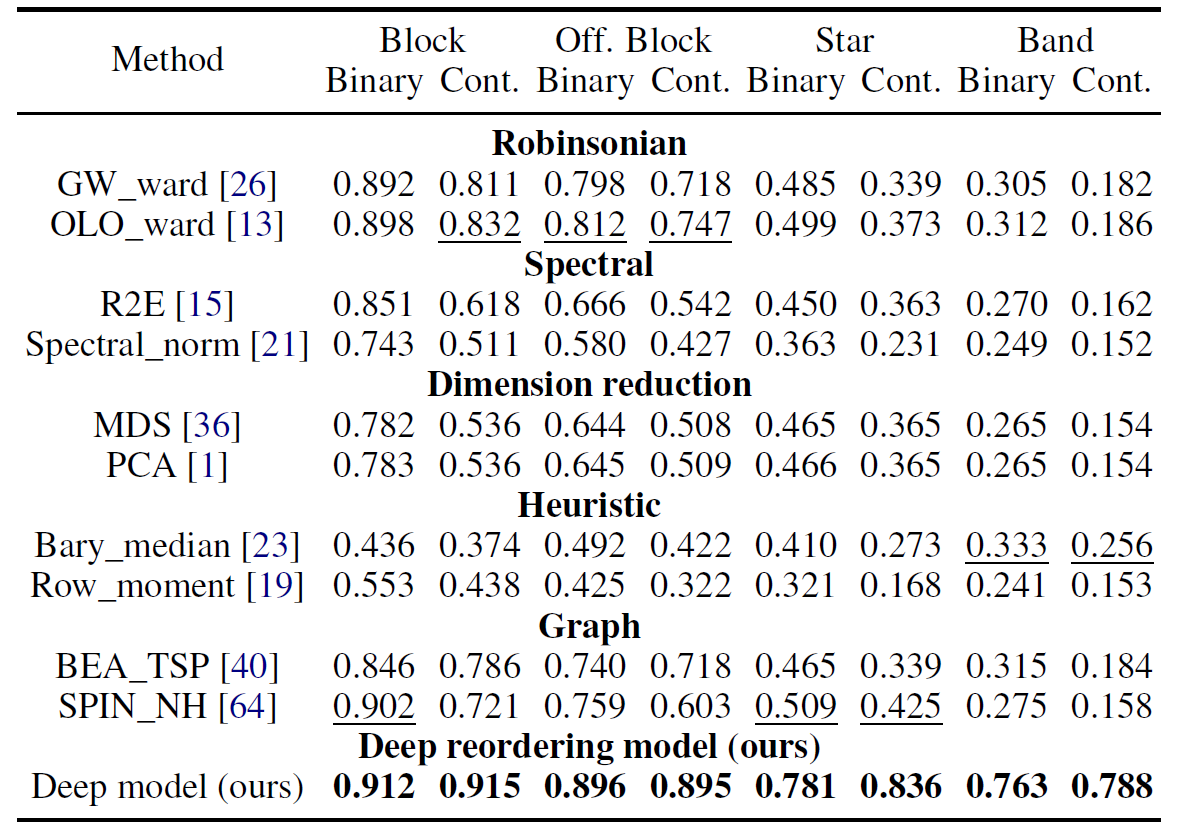
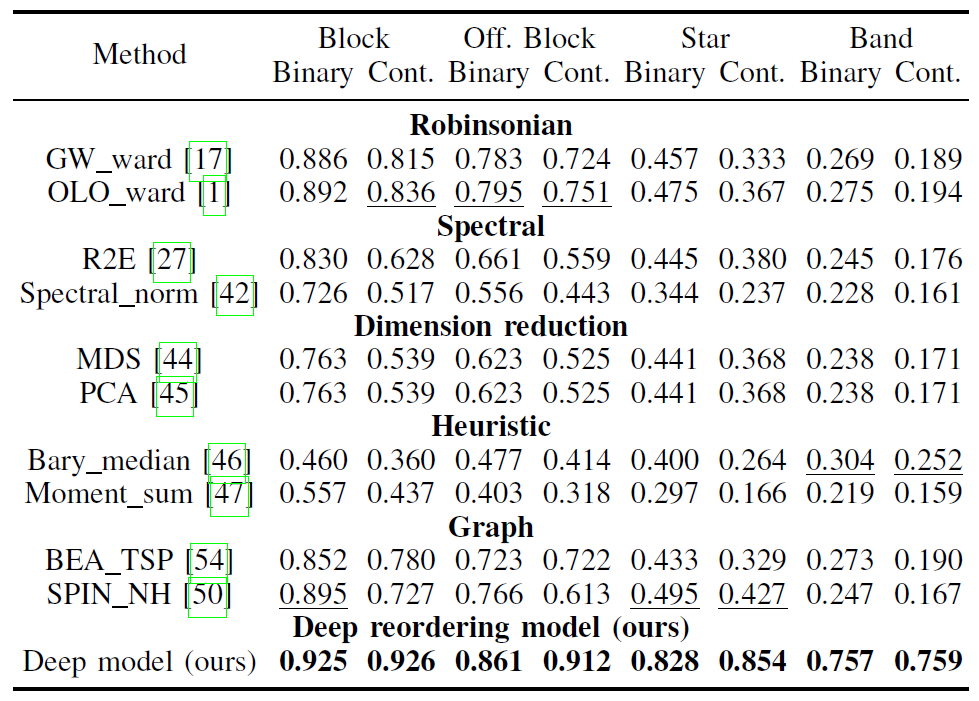
update

diff --git a/_pages/about.md b/_pages/about.md
@@ -2,8 +2,8 @@
 layout: about
 title: About
 permalink: /
-subtitle: A Dataset for Matrix Reordering
-description: "Matrix reordering permutes the rows and columns of a matrix to reveal meaningful visual patterns, such as blocks that represent clusters.A comprehensive collection of such matrices and their scores for measuring the quality of visual patterns in these matrices contributes to building a benchmark for selecting or designing an appropriate reordering algorithm for a task of interest.In this paper, we build a matrix reordering dataset, ReorderBench, with the goal of advancing matrix reordering techniques.This is achieved by generating a large set of diverse and representative matrices and scoring these matrices with a convolution- and entropy-based method. Our dataset contains 544,500 binary matrices and 1,089,000 continuous matrices, each featuring one of four visual patterns: block, off-diagonal block, star, or band. We demonstrate the usefulness of ReorderBench through three main applications in matrix reordering: 1) evaluating different reordering algorithms, 2) creating a unified scoring model to measure the visual patterns in any matrix, and 3) developing a deep learning model for matrix reordering."
+subtitle: A Benchmark for Matrix Reordering
+description: "Matrix reordering permutes the rows and columns of a matrix to reveal meaningful visual patterns, such as blocks that represent clusters. A comprehensive collection of matrices, along with their scores for measuring the quality of visual patterns in these matrices, contributes to building a benchmark. This benchmark is essential for selecting or designing an appropriate reordering algorithm for a task of interest. In this paper, we build a matrix reordering benchmark, ReorderBench, with the goal of advancing matrix reordering techniques. This is achieved by generating a large set of diverse and representative matrices and scoring these matrices with a convolution- and entropy-based method. Our benchmark contains 2,835,000 binary matrices and 5,670,000 continuous matrices, each featuring one of four visual patterns: block, off-diagonal block, star, or band. We demonstrate the usefulness of ReorderBench through three main applications in matrix reordering: 1) evaluating different reordering algorithms, 2) creating a unified scoring model to measure the visual patterns in any matrix, and 3) developing a deep learning model for matrix reordering."
 # pretty_table: true
 # profile:
 #   align: right
@@ -19,40 +19,58 @@ description: "Matrix reordering permutes the rows and columns of a matrix to rev
 
 <h4><span class="font-weight-bold">What is ReorderBench?</span></h4>
 
-ReorderBench is a large-scale matrix dataset built for matrix reordering. ReorderBench has the following features:
+ReorderBench is a large-scale matrix benchmark built for matrix reordering. ReorderBench has the following features:
 
 - [x] Visual pattern recognition
-- [x] 544,500 binary matrices and 1,089,000 continuous matrices
-- [x] Four visual patterns: block, off-diagonal block, star, and band
+- [x] 2,835,000 binary matrices and 5,670,000 continuous matrices
+- [x] 4 visual patterns: block, off-diagonal block, star, and band
+- [x] 4 matrix sizes: 100x100, 200x200, 300x300, and 400x400
 - [x] Scores to measure the quality of visual patterns
-
-Each matrix is of size 200x200 and symmetric.
 
 <br />
 
-<h4><span class="font-weight-bold">Dataset</span></h4>
+<h4><span class="font-weight-bold">Benchmark</span></h4>
 
-We provide the ReorderBench test set at [Google Drive](https://drive.google.com/drive/folders/1GHtuL6TgyQ7WMW1C8sIYebx4HBknKu5n?usp=drive_link) and [Hugging Face](https://huggingface.co/datasets/reorderbench/ReorderBench).
+We provide the ReorderBench test set with 1,701,000 matrices at [Hugging Face](https://huggingface.co/datasets/reorderbench/ReorderBench). 
+Click <a href="http://166.111.80.25:5173">HERE</a> to explore more examples.
 
-<div class="col-sm mt-0 mt-md-0">
-    {% include figure.liquid path="assets/img/examples.png" class="img-fluid rounded z-depth-1" zoomable=false %}
+<div class="row justify-content-sm-center">
+    <a href="http://166.111.80.25:5173">
+        <div class="col-sm-12 mt-4 mt-md-0">
+            {% include figure.liquid 
+                path="assets/img/matrix_navigator.png" 
+                class="img-fluid rounded z-depth-1" 
+                zoomable=false
+                caption="Click to explore the ReorderBench test set." 
+            %}
+        </div>
+    </a>
+</div>
+
+<div class="row justify-content-sm-center">
+    <div class="col-sm mt-4 mt-md-0">
+        {% include figure.liquid path="assets/img/examples_full.png" class="img-fluid rounded z-depth-1" zoomable=false %}
+    </div>
+</div>
+<div class="caption">
+    Examples of matrices in ReorderBench. 
 </div>
 
 <br />
 
-<h4><span class="font-weight-bold">Dataset Generation Pipeline</span></h4>
+<h4><span class="font-weight-bold">Benchmark generation pipiline</span></h4>
 
-To ensure the representativeness and diversity of the ReorderBench dataset, we first generate a set of representative matrix templates for each visual pattern. Then, based on these matrix templates, a large number of matrix variations with diverse degrees of degeneration are generated. The diversity is achieved by combining different variation methods, including index swapping and two types of typical anti-patterns: noise anti-patterns and noise-cluster anti-patterns. To accurately evaluate the quality of visual patterns in a matrix, we develop a scoring method by combining the matching capability of convolutional kernels and the disorder detection capability of entropy.
+To ensure the representativeness and diversity of the ReorderBench, we first generate a set of representative matrix templates for each visual pattern. Then, based on these matrix templates, a large number of matrix variations with diverse degrees of degeneration are generated. The diversity is achieved by combining different variation methods, including index swapping and two types of typical anti-patterns: noise anti-patterns and noise-cluster anti-patterns. To accurately evaluate the quality of visual patterns in a matrix, we develop a scoring method by combining the matching capability of convolutional kernels and the disorder detection capability of entropy.
 
 The code for generating the dataset is available at [Github](https://github.com/reorderbench/reorderbench_code/tree/main/generator).
 
 <div class="row justify-content-sm-center">
-<div class="col-sm mt-0 mt-md-0">
-    {% include figure.liquid path="assets/img/system_pipeline.png" class="img-fluid rounded z-depth-1" zoomable=true %}
-</div>
+    <div class="col-sm mt-4 mt-md-0">
+        {% include figure.liquid path="assets/img/system_pipeline.png" class="img-fluid rounded z-depth-1" zoomable=true %}
+    </div>
 </div>
 <div class="caption">
-    The construction pipeline for the ReorderBench dataset.
+    The generation pipeline for the ReorderBench benchmark.
 </div>
 
 
@@ -60,35 +78,43 @@ The code for generating the dataset is available at [Github](https://github.com/
 
 <h4><span class="font-weight-bold">Unified scoring model</span></h4>
 
-We build a unified scoring model based on the ReorderBench dataset. This model aligns with the convolution- and entropy-based scoring method across all four visual patterns in both binary and continuous matrices and can also measure matrices of varying sizes. 
+We build a unified scoring model based on the ReorderBench. This model aligns with the convolution- and entropy-based scoring method across all four visual patterns in both binary and continuous matrices and can also measure matrices of varying sizes. 
 
-The unified scoring model is available [Google Drive](https://drive.google.com/drive/folders/1QatoIuwYmqpBRF-bXoPHzY24a0KdOriw?usp=drive_link) and [Hugging Face](https://huggingface.co/reorderbench/unified_scoring_model). The related code is available at [Github](https://github.com/reorderbench/reorderbench_code/tree/main/unified_scoring_model).
+The unified scoring model is available at [Hugging Face](https://huggingface.co/reorderbench/unified_scoring_model). The related code is available at [Github](https://github.com/reorderbench/reorderbench_code/tree/main/unified_scoring_model).
 
 <div class="row justify-content-sm-center">
-    <div class="col-sm-8 mt-4 mt-md-0">
+    <div class="col-sm-10 mt-4 mt-md-0">
         {% include figure.liquid 
-            path="assets/img/score.png" 
+            path="assets/img/scoring_model.png" 
             class="img-fluid rounded z-depth-1" 
             zoomable=false 
         %}
     </div>
 </div>
-<div class="caption">
-    Scores of real-world matrices generated by the unified scoring model. For each matrix, the scores measure the quality of block, off-diagonal block, star, and band patterns, respectively.
-</div>
+<figcaption class="caption">
+    Scores generated by our unified scoring model, which measure the quality of block, off-diagonal block, star, and band patterns, respectively. The matrices are from 
+    <a href="http://vlado.fmf.uni-lj.si/pub/networks/data/">
+        the Pajek graph
+    </a> 
+    and 
+    <a href="https://networkrepository.com/">
+        the Network Repository
+    </a>
+    .
+</figcaption>
 
 <div class="row justify-content-sm-center">
-    <div class="col-sm-10 mt-4 mt-md-0">
+    <div class="col-sm-11 mt-4 mt-md-0">
         {% include figure.liquid 
-            path="assets/img/scoring.png" 
+            path="assets/img/scoring_model_compare.png" 
             class="img-fluid rounded z-depth-0" 
             zoomable=false 
         %}
     </div>
 </div>
-<div class="caption">
+<figcaption class="caption">
     The performance of deep neural networks as the unified scoring model. The best performance under each measure is  <span style="font-weight: 900;">bold</span>.
-</div>
+</figcaption>
 
 <br />
 
@@ -96,10 +122,10 @@ The unified scoring model is available [Google Drive](https://drive.google.com/d
 
 The extensive and diverse matrices in ReorderBench offer valuable supervision for training a deep reordering model. By treating the matrices with index swaps as negative samples and their ground-truth matrices as positive samples, we build a deep model for matrix reordering.
 
-The models are available at [Google Drive](https://drive.google.com/drive/folders/1pDLDtbPISPTpeXuxv_fb48g-EMMpBWhb?usp=drive_link) or [Hugging Face](https://huggingface.co/reorderbench/reordering_model). The related code is available at [Github](https://github.com/reorderbench/reorderbench_code/tree/main/reordering_model).
+The models are available at [Hugging Face](https://huggingface.co/reorderbench/reordering_model). The related code is available at [Github](https://github.com/reorderbench/reorderbench_code/tree/main/reordering_model).
 
 <div class="row justify-content-sm-center">
-    <div class="col-sm-8 mt-4 mt-md-0">
+    <div class="col-sm-10 mt-4 mt-md-0">
         {% include figure.liquid 
             path="assets/img/deep_reorder.png" 
             class="img-fluid rounded z-depth-1" 
@@ -107,9 +133,9 @@ The models are available at [Google Drive](https://drive.google.com/drive/folder
         %}
     </div>
 </div>
-<div class="caption">
+<figcaption class="caption">
     The architecture of our deep reordering model.
-</div>
+</figcaption>
 
 <div class="row justify-content-sm-center">
     <div class="col-sm-10 mt-4 mt-md-0">
@@ -120,9 +146,9 @@ The models are available at [Google Drive](https://drive.google.com/drive/folder
         %}
     </div>
 </div>
-<div class="caption">
+<figcaption class="caption">
     Evaluation results of existing matrix reordering algorithms and our matrix reordering model. The best one is <span style="font-weight: 900;">bold</span>, and the runner-up is <u>underlined</u>.
-</div>
+</figcaption>
 
 <br />
 
